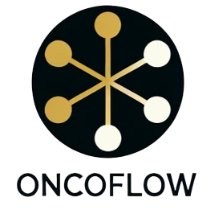
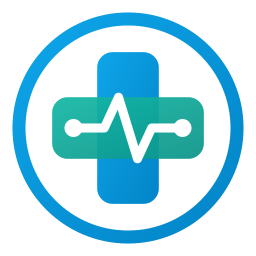
feat: change name to promedsyntis for exemple

diff --git a/application/src/ui/patient_mdt/translations.py b/application/src/ui/patient_mdt/translations.py
@@ -202,7 +202,61 @@ TRANSLATIONS = {
     "Good": "Bonne",
     "Medium": "Moyenne",
     "Poor": "Mauvaise",
+    # Domains
+    "oncology": "Oncologie",
+    "sma": "Amyotrophie spinale",
 }
+
+DOMAIN_FR_LABELS: dict[str, str] = {
+    "oncology": "Oncologie",
+    "sma": "Amyotrophie spinale",
+}
+
+
+def translate_domain_fr(domain: str) -> str:
+    """Retourne le libellé en français du domaine médical configuré."""
+    if not domain:
+        return ""
+    clean = domain.strip().lower()
+    return DOMAIN_FR_LABELS.get(clean, domain.strip().capitalize())
+
+
+def get_logo_svg(domain: str) -> str:
+    """Génère le logo SVG MedDataSyntis intégrant dynamiquement le domaine en français."""
+    domain_fr = translate_domain_fr(domain)
+    subtitle_line = (
+        f"  <text x=\"118\" y=\"93\" font-family=\"'Open Sans', 'DejaVu Sans', 'Liberation Sans', Arial, sans-serif\" "
+        f'font-size="30" font-weight="600" fill="#0EA5E9">- {domain_fr}</text>\n'
+        if domain_fr
+        else ""
+    )
+    brand_y = "54" if domain_fr else "72"
+    return (
+        '<svg xmlns="http://www.w3.org/2000/svg" viewBox="0 0 468 110" width="468" height="110">\n'
+        "  <defs>\n"
+        '    <linearGradient id="medBlue" x1="0%" y1="0%" x2="100%" y2="100%">\n'
+        '      <stop offset="0%" stop-color="#0EA5E9" />\n'
+        '      <stop offset="100%" stop-color="#0284C7" />\n'
+        "    </linearGradient>\n"
+        '    <linearGradient id="medTeal" x1="0%" y1="0%" x2="100%" y2="100%">\n'
+        '      <stop offset="0%" stop-color="#14B8A6" />\n'
+        '      <stop offset="100%" stop-color="#0D9488" />\n'
+        "    </linearGradient>\n"
+        "  </defs>\n"
+        '  <g transform="translate(4, 5)">\n'
+        '    <circle cx="50" cy="50" r="46" fill="none" stroke="url(#medBlue)" stroke-width="5.5" />\n'
+        '    <rect x="37" y="18" width="26" height="64" rx="6.5" fill="url(#medBlue)" />\n'
+        '    <rect x="18" y="37" width="64" height="26" rx="6.5" fill="url(#medTeal)" opacity="0.93" />\n'
+        '    <polyline points="27,50 40,50 46,37 54,63 60,50 73,50" fill="none" stroke="#FFFFFF" stroke-width="3.8" stroke-linecap="round" stroke-linejoin="round" />\n'
+        '    <circle cx="27" cy="50" r="3.8" fill="#FFFFFF" />\n'
+        '    <circle cx="73" cy="50" r="3.8" fill="#FFFFFF" />\n'
+        "  </g>\n"
+        f'  <text x="116" y="{brand_y}" font-family="\'Open Sans\', \'DejaVu Sans\', \'Liberation Sans\', Arial, sans-serif" font-size="46" font-weight="700" letter-spacing="-0.5">\n'
+        '    <tspan fill="#0EA5E9">MedData</tspan><tspan fill="#14B8A6">Syntis</tspan>\n'
+        "  </text>\n"
+        f"{subtitle_line}"
+        "</svg>"
+    )
 
 
 def translate(text: Any) -> Any:

diff --git a/application/app-ui.py b/application/app-ui.py
@@ -36,12 +36,20 @@ import streamlit_authenticator as stauth
 
 PAGES_DIR_SRC = "src/ui"
 navigation = {}
-st.set_page_config(layout="wide")
 
 # Configuration de l'authentification
 from src.application.config import AppConfig
+from src.ui.patient_mdt.translations import get_logo_svg, translate_domain_fr
 
 app_config = AppConfig()
+domain_fr = translate_domain_fr(app_config.domain)
+app_title = f"MedDataSyntis - {domain_fr}" if domain_fr else "MedDataSyntis"
+
+st.set_page_config(
+    page_title=app_title,
+    page_icon="static/icon.png",
+    layout="wide",
+)
 
 if app_config.dev_mode:
     logger = app_config.set_logger("oncoflow.ui")
@@ -49,7 +57,7 @@ if app_config.dev_mode:
         "\n"
         + "=" * 60
         + "\n"
-        + "⚠  ONCOFLOW EST EN MODE DÉVELOPPEMENT (DEV MODE)  ⚠".center(60)
+        + "⚠  MEDDATASYNTIS EST EN MODE DÉVELOPPEMENT (DEV MODE)  ⚠".center(60)
         + "\n"
         + "=" * 60
         + "\n"
@@ -97,7 +105,8 @@ else:
 
 
 st.logo(
-    "static/logo.png",
+    get_logo_svg(app_config.domain),
+    size="large",
     icon_image="static/icon.png",
 )
 
@@ -121,7 +130,7 @@ else:
 
 pages = {}
 
-pages["Patient mdt Oncologic"] = [
+pages[app_title] = [
     st.Page(
         f"{PAGES_DIR_SRC}/patient_mdt/cards.py",
         title="Dossiers Patients",
@@ -168,7 +177,7 @@ if st.session_state.get("authentication_status"):
                 "Se déconnecter",
                 "/oauth2/sign_out",
                 icon="🚪",
-                use_container_width=True,
+                width="stretch",
             )
         elif authenticator is not None:
             if st.button("Se déconnecter", key="logout_btn", icon="🚪"):

diff --git a/application/src/ui/patient_mdt/tests/test_translations.py b/application/src/ui/patient_mdt/tests/test_translations.py
@@ -1,5 +1,9 @@
 import streamlit as st
-from src.ui.patient_mdt.translations import translate
+from src.ui.patient_mdt.translations import (
+    get_logo_svg,
+    translate,
+    translate_domain_fr,
+)
 from src.domain.common.common_ressources import PatientPriority, WHOPerformanceStatus
 
 
@@ -34,6 +38,20 @@ def test_translation_french():
 
     # Test fallback
     assert translate("Some Unknown Label") == "Some Unknown Label"
+
+    # Test domain translations
+    assert translate("oncology") == "Oncologie"
+    assert translate("sma") == "Amyotrophie spinale"
+    assert translate_domain_fr("oncology") == "Oncologie"
+    assert translate_domain_fr("sma") == "Amyotrophie spinale"
+
+    svg_onco = get_logo_svg("oncology")
+    assert "MedData" in svg_onco
+    assert "Syntis" in svg_onco
+    assert "- Oncologie" in svg_onco
+
+    svg_sma = get_logo_svg("sma")
+    assert "- Amyotrophie spinale" in svg_sma
 
 
 def test_translation_english():

diff --git a/README.md b/README.md
@@ -1,4 +1,4 @@
-# ✨ Oncoflow — L'IA locale au service de la cancérologie digestive
+# ✨ MedDataSyntis — L'IA locale au service de la synthèse de données médicales
 
 <p align="left">
   <a href="https://github.com/oncoflow/oncoflow/actions/workflows/ci.yml"><img src="https://github.com/oncoflow/oncoflow/actions/workflows/ci.yml/badge.svg?branch=main" alt="CI/CD Pipeline" /></a>
@@ -23,17 +23,17 @@
   <a href="https://discord.gg/C2RPhyn9x8"><img src="https://img.shields.io/badge/Discord-Rejoindre%20la%20communauté-5865F2?style=flat-square&logo=discord&logoColor=white" alt="Discord Community" /></a>
 </p>
 
-**Oncoflow** est une solution logicielle innovante, gratuite, open-source et **100% locale**, conçue spécifiquement pour les professionnels francophones de la santé (chirurgiens, oncologues, gastro-entérologues). Elle exploite les capacités des modèles de langage locaux (LLM) et du RAG (Retrieval-Augmented Generation) pour simplifier et optimiser la préparation et le déroulement des **Réunions de Concertation Pluridisciplinaire (RCP)** en oncologie digestive.
+**MedDataSyntis** est une solution logicielle innovante, gratuite, open-source et **100% locale**, conçue spécifiquement pour les professionnels francophones de la santé (chirurgiens, oncologues, gastro-entérologues, spécialistes des maladies rares). Elle exploite les capacités des modèles de langage locaux (LLM) et du RAG (Retrieval-Augmented Generation) pour simplifier et optimiser la préparation et le déroulement des **Réunions de Concertation Pluridisciplinaire (RCP)** (oncologie digestive, amyotrophie spinale, etc.).
 
 ---
 
 ## 🗺 Vision Clinique vs Solution Technique
 
-Pour répondre au mieux aux besoins de chacun de nos utilisateurs, la documentation d'Oncoflow est scindée en deux grands espaces :
+Pour répondre au mieux aux besoins de chacun de nos utilisateurs, la documentation de MedDataSyntis est scindée en deux grands espaces :
 
 ```
                         ┌──────────────────────────────┐
-                        │      PORTAIL ONCOFLOW        │
+                        │    PORTAIL MEDDATASYNTIS     │
                         └──────────────┬───────────────┘
                                        │
                 ┌──────────────────────┴──────────────────────┐
@@ -53,17 +53,17 @@ Pour répondre au mieux aux besoins de chacun de nos utilisateurs, la documentat
 
 ## 🩺 1. Espace Cliniciens (Professionnels de Santé)
 
-Vous êtes chirurgien, oncologue, gastro-entérologue ou secrétaire médical de RCP ? Oncoflow a été pensé pour réduire votre charge mentale administrative en automatisant la synthèse de vos dossiers patients tout en fiabilisant les processus de prise en charge.
+Vous êtes chirurgien, oncologue, gastro-entérologue ou secrétaire médical de RCP ? MedDataSyntis a été pensé pour réduire votre charge mentale administrative en automatisant la synthèse de vos dossiers patients tout en fiabilisant les processus de prise en charge.
 
 ### Ses atouts cliniques majeurs :
-1. **Synthèse de dossier instantanée** : Extraction et structuration des caractéristiques tumorales (classification TNM, type histologique, biomarqueurs).
+1. **Synthèse de dossier instantanée** : Extraction et structuration des caractéristiques cliniques et tumorales (classification TNM, type histologique, biomarqueurs, bilans génétiques et fonctionnels).
 2. **Alerte de pièces manquantes (Missing Records)** : L'IA détecte si un examen obligatoire (compte-rendu d'anatomopathologie, examen biologique ou d'imagerie) fait défaut avant la réunion, évitant ainsi de reporter le dossier.
 3. **Optimisation de l'ordre de passage** : Triage automatisé priorisant les cas cliniques complexes nécessitant le plus de débats pluridisciplinaires.
-4. **Intégration du TNCD** : Confrontation directe des critères du patient avec les fiches de recommandations cliniques officielles du **Thésaurus National de Cancérologie Digestive (TNCD)**.
+4. **Intégration du TNCD** : Confrontation directe des critères du patient avec les fiches de recommandations cliniques officielles du **Thésaurus National de Cancérologie Digestive (TNCD)** et autres référentiels médicaux.
 
 ### 🛡 Souveraineté & Sécurité Locale
 > [!IMPORTANT] **Respect absolu du Secret Médical (RGPD)**
-> Oncoflow fonctionne **intégralement hors-ligne (local-first)**. Vos documents et données médicales ne transitent jamais sur internet ou sur des serveurs cloud tiers (zéro connexion avec OpenAI, Google, etc.). Tout le calcul s'effectue localement au sein de l'infrastructure sécurisée de l'hôpital.
+> MedDataSyntis fonctionne **intégralement hors-ligne (local-first)**. Vos documents et données médicales ne transitent jamais sur internet ou sur des serveurs cloud tiers (zéro connexion avec OpenAI, Google, etc.). Tout le calcul s'effectue localement au sein de l'infrastructure sécurisée de l'hôpital.
 
 👉 **[Consulter le Guide d'Utilisation Clinique Complet](docs/guide_clinique.md)**
 
@@ -71,7 +71,7 @@ Vous êtes chirurgien, oncologue, gastro-entérologue ou secrétaire médical de
 
 ## 💻 2. Espace Technique (Développeurs & Admins IT)
 
-Vous êtes ingénieur de recherche, développeur ou administrateur système hospitalier ? Oncoflow est conçu selon des standards rigoureux en Python `>=3.13` avec une architecture propre facilitant l'auditabilité et la maintenance.
+Vous êtes ingénieur de recherche, développeur ou administrateur système hospitalier ? MedDataSyntis est conçu selon des standards rigoureux en Python `>=3.13` avec une architecture propre facilitant l'auditabilité et la maintenance.
 
 ### ⚙ L'Architecture RAG Multi-Agents locale :
 
@@ -138,9 +138,9 @@ L'application intègre un système d'authentification local sécurisé via `stre
 
 ## 👥 Discord & Communauté
 
-Oncoflow est un projet open-source communautaire. Pour proposer de nouvelles fonctionnalités, poser vos questions techniques ou nous aider à intégrer d'autres thésaurus médicaux, rejoignez notre serveur d'échange :
+MedDataSyntis est un projet open-source communautaire. Pour proposer de nouvelles fonctionnalités, poser vos questions techniques ou nous aider à intégrer d'autres thésaurus médicaux, rejoignez notre serveur d'échange :
 
-💬 **[Lien d'accès au Discord Officiel Oncoflow](https://discord.gg/C2RPhyn9x8)**
+💬 **[Lien d'accès au Discord Officiel MedDataSyntis](https://discord.gg/C2RPhyn9x8)**
 
 ---
 

diff --git a/AGENTS.md b/AGENTS.md
@@ -1,12 +1,12 @@
-# Oncoflow AI Agent Guidelines (`AGENTS.md`)
+# MedDataSyntis AI Agent Guidelines (`AGENTS.md`)
 
-Welcome to the **Oncoflow** development guidelines for AI agents and coding assistants. This document acts as a "README for machines," providing explicit instructions, operational workflows, and domain expert guidelines to build, test, and maintain the Oncoflow platform safely and efficiently.
+Welcome to the **MedDataSyntis** development guidelines for AI agents and coding assistants. This document acts as a "README for machines," providing explicit instructions, operational workflows, and domain expert guidelines to build, test, and maintain the MedDataSyntis platform safely and efficiently.
 
 ---
 
 ## 📖 Project Overview & Tech Stack
 
-Oncoflow is a secure, open-source, local-first web application designed for oncology clinical professionals (surgeons, doctors, and oncologists) in France. It leverages local Large Language Models (LLMs) and Retrieval-Augmented Generation (RAG) to:
+MedDataSyntis is a secure, open-source, local-first web application designed for clinical professionals (surgeons, doctors, oncologists, and rare disease specialists) in France. It leverages local Large Language Models (LLMs) and Retrieval-Augmented Generation (RAG) to:
 1. **Analyze Patient Records (MTDs)** to extract clinical and administrative info.
 2. **Detect Missing Records** to flag incomplete patient files.
 3. **Assess Case Urgency** and recommend an optimized MDT/RCP meeting order.
@@ -45,7 +45,7 @@ All development operations must follow these exact shell commands. Standard pref
 ## 🛡 Critical Boundaries & Rules (MUST NEVER VIOLATE)
 
 > [!CAUTION] **Patient Data Privacy (Local-Only Execution)**
-> Oncoflow deals with highly confidential medical data. **Never use public APIs or remote cloud services** (like OpenAI, Anthropic, or external embedding servers) for parsing or model invocation. All operations must run locally via local Docker services (Milvus, MongoDB) or local Ollama instances to guarantee hospital data compliance.
+> MedDataSyntis deals with highly confidential medical data. **Never use public APIs or remote cloud services** (like OpenAI, Anthropic, or external embedding servers) for parsing or model invocation. All operations must run locally via local Docker services (Milvus, MongoDB) or local Ollama instances to guarantee hospital data compliance.
 
 > [!WARNING] **Dependency Synchronization**
 > Always respect `pyproject.toml` dependencies. Do not use ad-hoc versions. Use `uv.lock` to pin dependencies.
@@ -57,7 +57,7 @@ All development operations must follow these exact shell commands. Standard pref
 
 ## 🤝 Multi-Agent Expert Skills
 
-Oncoflow defines custom agent skills in the `skills/` folder to capture specific domain expertise. These skills are automatically discoverable by Google Antigravity SDK agents.
+MedDataSyntis defines custom agent skills in the `skills/` folder to capture specific domain expertise. These skills are automatically discoverable by Google Antigravity SDK agents.
 
 ```mermaid
 graph TD

diff --git a/application/AGENTS.md b/application/AGENTS.md
@@ -1,12 +1,12 @@
-# Oncoflow AI Agent Guidelines (`AGENTS.md`)
+# MedDataSyntis AI Agent Guidelines (`AGENTS.md`)
 
-Welcome to the **Oncoflow** development guidelines for AI agents and coding assistants. This document acts as a "README for machines," providing explicit instructions, operational workflows, and domain expert guidelines to build, test, and maintain the Oncoflow platform safely and efficiently.
+Welcome to the **MedDataSyntis** development guidelines for AI agents and coding assistants. This document acts as a "README for machines," providing explicit instructions, operational workflows, and domain expert guidelines to build, test, and maintain the MedDataSyntis platform safely and efficiently.
 
 ---
 
 ## 📖 Project Overview & Tech Stack
 
-Oncoflow is a secure, open-source, local-first web application designed for oncology clinical professionals (surgeons, doctors, and oncologists) in France. It leverages local Large Language Models (LLMs) and Retrieval-Augmented Generation (RAG) to:
+MedDataSyntis is a secure, open-source, local-first web application designed for clinical professionals (surgeons, doctors, oncologists, and rare disease specialists) in France. It leverages local Large Language Models (LLMs) and Retrieval-Augmented Generation (RAG) to:
 1. **Analyze Patient Records (MTDs)** to extract clinical and administrative info.
 2. **Detect Missing Records** to flag incomplete patient files.
 3. **Assess Case Urgency** and recommend an optimized MDT/RCP meeting order.
@@ -45,7 +45,7 @@ All development operations must follow these exact shell commands. Standard pref
 ## 🛡 Critical Boundaries & Rules (MUST NEVER VIOLATE)
 
 > [!CAUTION] **Patient Data Privacy (Local-Only Execution)**
-> Oncoflow deals with highly confidential medical data. **Never use public APIs or remote cloud services** (like OpenAI, Anthropic, or external embedding servers) for parsing or model invocation. All operations must run locally via local Docker services (Milvus, MongoDB) or local Ollama instances to guarantee hospital data compliance.
+> MedDataSyntis deals with highly confidential medical data. **Never use public APIs or remote cloud services** (like OpenAI, Anthropic, or external embedding servers) for parsing or model invocation. All operations must run locally via local Docker services (Milvus, MongoDB) or local Ollama instances to guarantee hospital data compliance.
 
 > [!WARNING] **Dependency Synchronization**
 > Always respect `pyproject.toml` dependencies. Do not use ad-hoc versions. Use `uv.lock` to pin dependencies.
@@ -57,7 +57,7 @@ All development operations must follow these exact shell commands. Standard pref
 
 ## 🤝 Multi-Agent Expert Skills
 
-Oncoflow defines custom agent skills in the `skills/` folder to capture specific domain expertise. These skills are automatically discoverable by Google Antigravity SDK agents.
+MedDataSyntis defines custom agent skills in the `skills/` folder to capture specific domain expertise. These skills are automatically discoverable by Google Antigravity SDK agents.
 
 ```mermaid
 graph TD

diff --git a/docs/guide_technique.md b/docs/guide_technique.md
@@ -1,12 +1,12 @@
-# 💻 Oncoflow — Technical Reference Guide
+# 💻 MedDataSyntis — Technical Reference Guide
 
-This document provides a comprehensive technical overview of the **Oncoflow** platform. It describes the clean onion architecture, infrastructure dependencies, data flows, and full environment variable configurations.
+This document provides a comprehensive technical overview of the **MedDataSyntis** platform. It describes the clean onion architecture, infrastructure dependencies, data flows, and full environment variable configurations.
 
 ---
 
 ## 🏗 Clean Onion Architecture
 
-The backend of Oncoflow is built in Python (strictly requiring `>=3.13`) using Clean Architecture principles to keep the business rules independent of database systems, frameworks, and user interfaces.
+The backend of MedDataSyntis is built in Python (strictly requiring `>=3.13`) using Clean Architecture principles to keep the business rules independent of database systems, frameworks, and user interfaces.
 
 ```
                   ┌─────────────────────────────────────┐
@@ -46,7 +46,7 @@ The backend of Oncoflow is built in Python (strictly requiring `>=3.13`) using C
 
 ## 🗄 Database & Storage Layer
 
-Oncoflow employs dual storage paradigms to ensure ultra-low latency and scalable local lookups:
+MedDataSyntis employs dual storage paradigms to ensure ultra-low latency and scalable local lookups:
 
 ### 1. Vector Search Engines (Similarity Store)
 * **Milvus (Production Default)**: Run as a local docker container (`milvus-standalone`). Used to index dense embeddings of patient records and TNCD clinical thésaurus guidelines for similarity semantic queries. Uses `pymilvus==2.6.14` and `langchain-milvus==0.3.3`.
@@ -72,7 +72,7 @@ All machine learning models run strictly inside the local network boundary via *
 
 ## ⚙ Comprehensive Environment Variables
 
-Oncoflow is highly customizable through environment variables parsed transparently by `environ-config` under `AppConfig` (prefixed with `APP_`).
+MedDataSyntis is highly customizable through environment variables parsed transparently by `environ-config` under `AppConfig` (prefixed with `APP_`).
 
 | Variable Name | Type | Default Value | Description |
 | :--- | :--- | :--- | :--- |

diff --git a/HOW-TO-CONTRIBUTE.md b/HOW-TO-CONTRIBUTE.md
@@ -1,9 +1,9 @@
-# 🤝 Guide de Contribution — Oncoflow
+# 🤝 Guide de Contribution — MedDataSyntis
 
-Merci de l'intérêt que vous portez à **Oncoflow** ! C'est un projet open-source et gratuit conçu pour aider les chirurgiens et oncologues français spécialisés en cancérologie digestive.
+Merci de l'intérêt que vous portez à **MedDataSyntis** ! C'est un projet open-source et gratuit conçu pour aider les professionnels de santé (chirurgiens, oncologues, spécialistes) dans l'analyse et la synthèse de dossiers patients en RCP.
 
 Pour rejoindre la communauté et commencer à contribuer :
-1. Rejoignez notre serveur Discord officiel : [Rejoindre le Discord Oncoflow](https://discord.gg/C2RPhyn9x8)
+1. Rejoignez notre serveur Discord officiel : [Rejoindre le Discord MedDataSyntis](https://discord.gg/C2RPhyn9x8)
 2. Laissez un court message de salutation dans le salon `#ask-to-join` afin que nous vous donnions les droits d'écriture ! 😊
 
 ---
@@ -42,7 +42,7 @@ Pour rejoindre la communauté et commencer à contribuer :
 
 ### 1. Démarrage des Services de l'Infrastructure (Docker Compose)
 
-Les services d'infrastructure d'Oncoflow sont divisés en deux fichiers Docker Compose situés dans `dist/docker/compose/`. Lancez-les depuis la **racine du dépôt** :
+Les services d'infrastructure de MedDataSyntis sont divisés en deux fichiers Docker Compose situés dans `dist/docker/compose/`. Lancez-les depuis la **racine du dépôt** :
 
 #### A. Base de Données Vectorielle (Milvus Standalone)
 Milvus est notre base de données de similarité principale. Elle utilise trois conteneurs locaux (milvus-standalone, etcd, minio) :
@@ -75,7 +75,7 @@ Les ports locaux indispensables pour l'application sont :
 
 ### 2. Configuration des Modèles IA locaux (Ollama)
 
-Oncoflow nécessite trois types de modèles locaux pour fonctionner. Vous devez les récupérer via le client Ollama avant de démarrer l'application.
+MedDataSyntis nécessite trois types de modèles locaux pour fonctionner. Vous devez les récupérer via le client Ollama avant de démarrer l'application.
 
 Voici les correspondances avec les variables de configuration (`AppConfig`) :
 

diff --git a/application/README.md b/application/README.md
@@ -1,4 +1,4 @@
-# 🖥 Oncoflow — Frontend Application Dashboard
+# 🖥 MedDataSyntis — Frontend Application Dashboard
 
 <p align="left">
   <a href="https://www.python.org/"><img src="https://img.shields.io/badge/Python-%3E%3D%203.13-3776AB?style=flat-square&logo=python&logoColor=white" alt="Python Version" /></a>
@@ -11,7 +11,7 @@
 Cette partie de l'application contient l'interface utilisateur développée en **Streamlit** ainsi que les configurations liées à l'exécution de l'application.
 
 ## 🚀 Lancement de l'application
-Pour démarrer l'interface d'Oncoflow localement en mode développement, exécutez la commande suivante depuis ce dossier (`application/`) :
+Pour démarrer l'interface de MedDataSyntis localement en mode développement, exécutez la commande suivante depuis ce dossier (`application/`) :
 ```bash
 uv run streamlit run app-ui.py
 ```

diff --git a/docs/api/endpoints.md b/docs/api/endpoints.md
@@ -1,6 +1,6 @@
-# Spécification de l'API REST versionnée (v1) — Oncoflow
+# Spécification de l'API REST versionnée (v1) — MedDataSyntis
 
-Cette documentation détaille l'ensemble des points d'entrée de l'API REST d'Oncoflow versionnée sous `/api/v1`.
+Cette documentation détaille l'ensemble des points d'entrée de l'API REST de MedDataSyntis versionnée sous `/api/v1`.
 
 L'API permet de gérer les dossiers RCP (Réunions de Concertation Pluridisciplinaire) des patients, de piloter les agents experts d'intelligence artificielle, d'interroger les guides scientifiques (TNCD) de référence et de discuter avec les agents.
 
